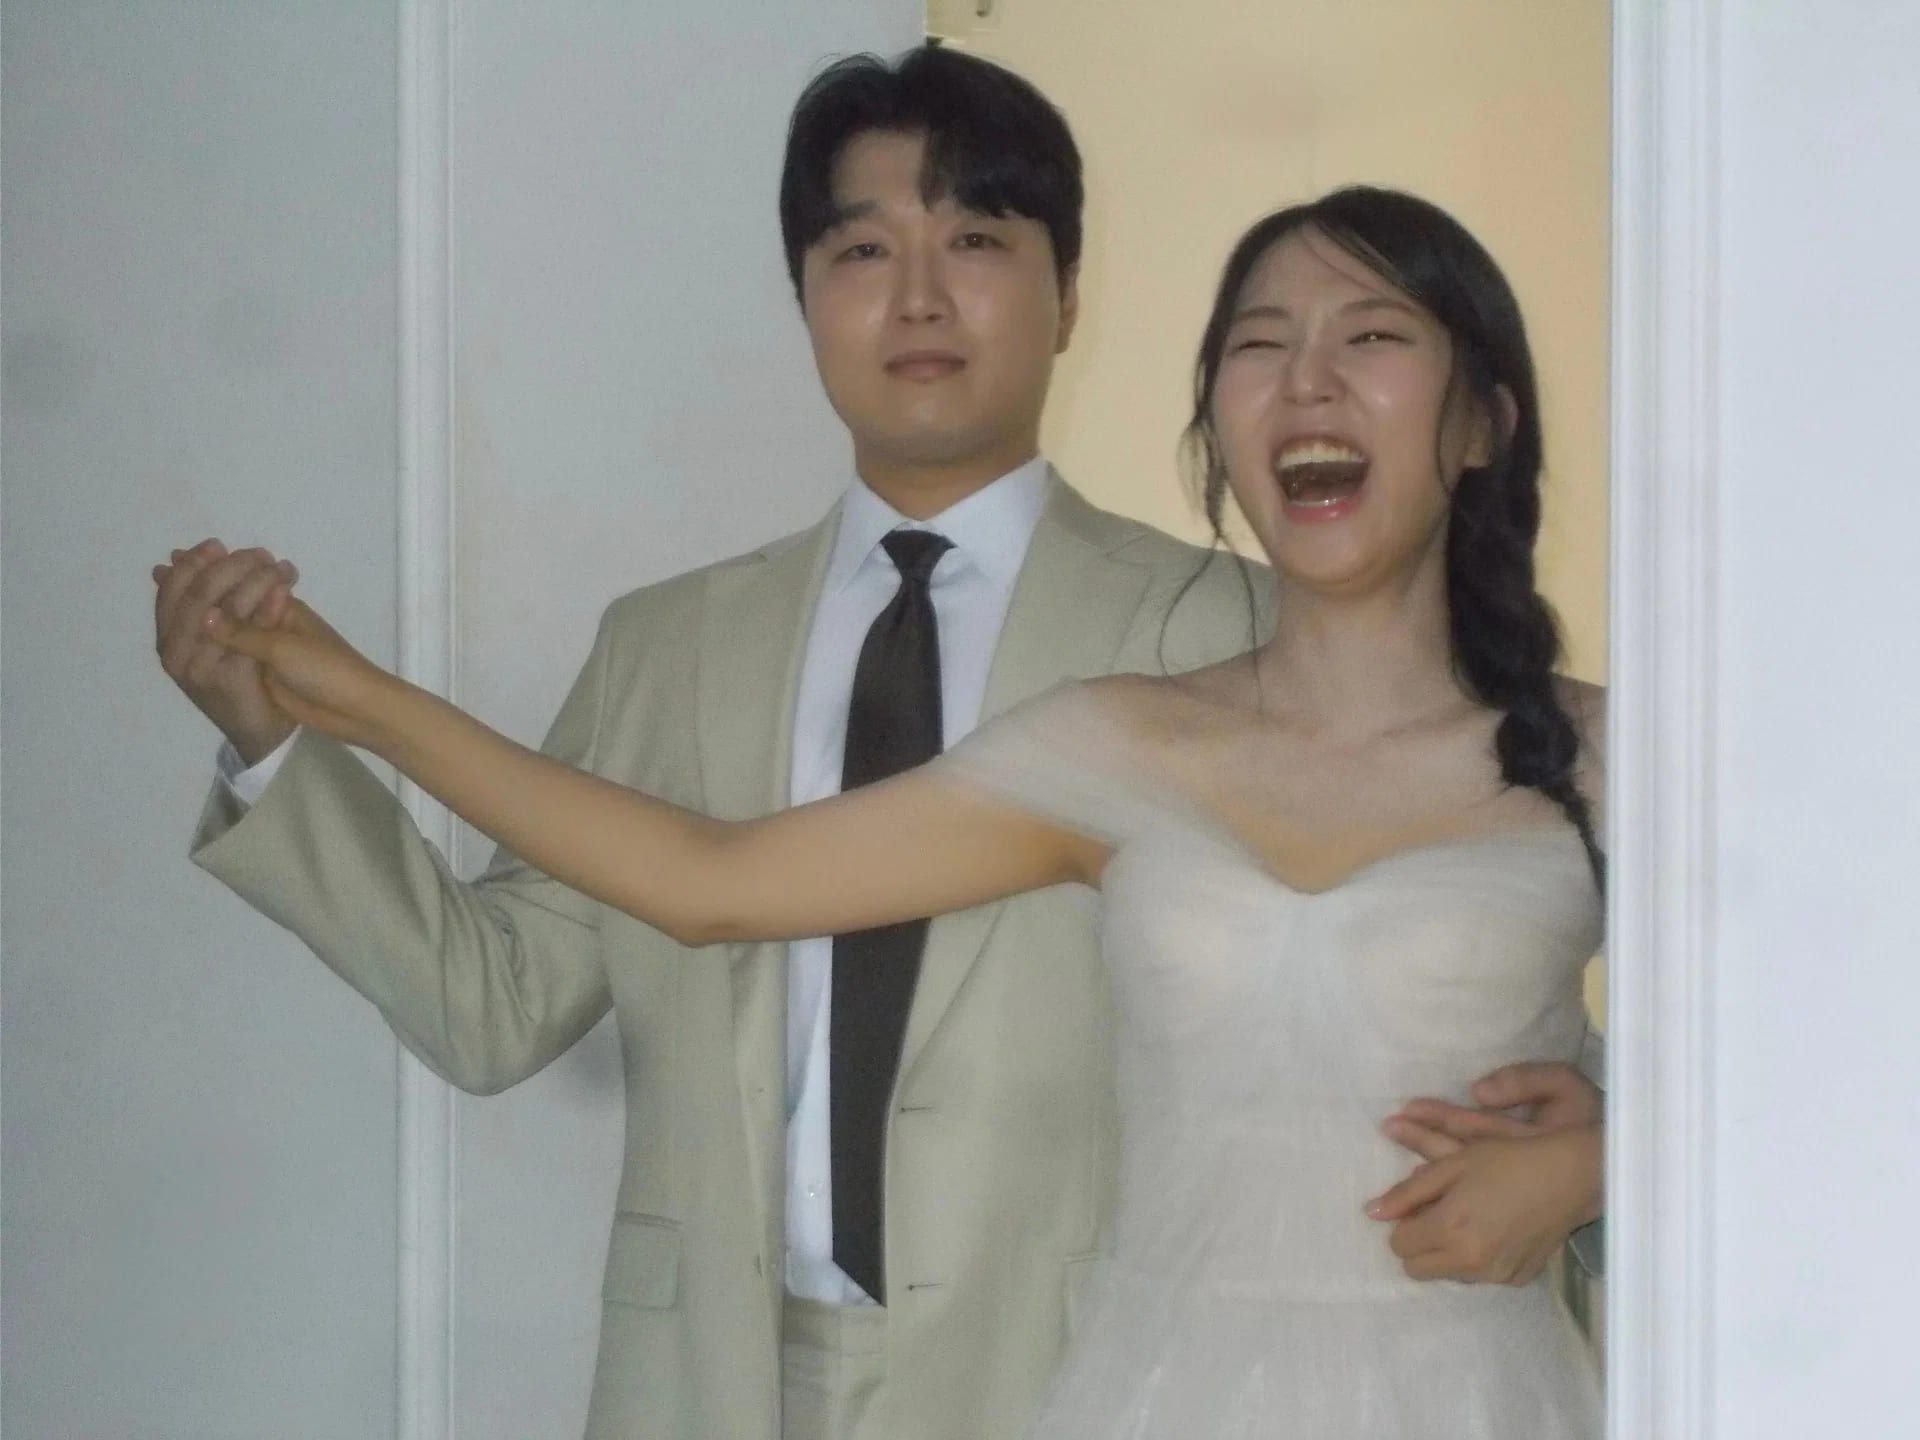
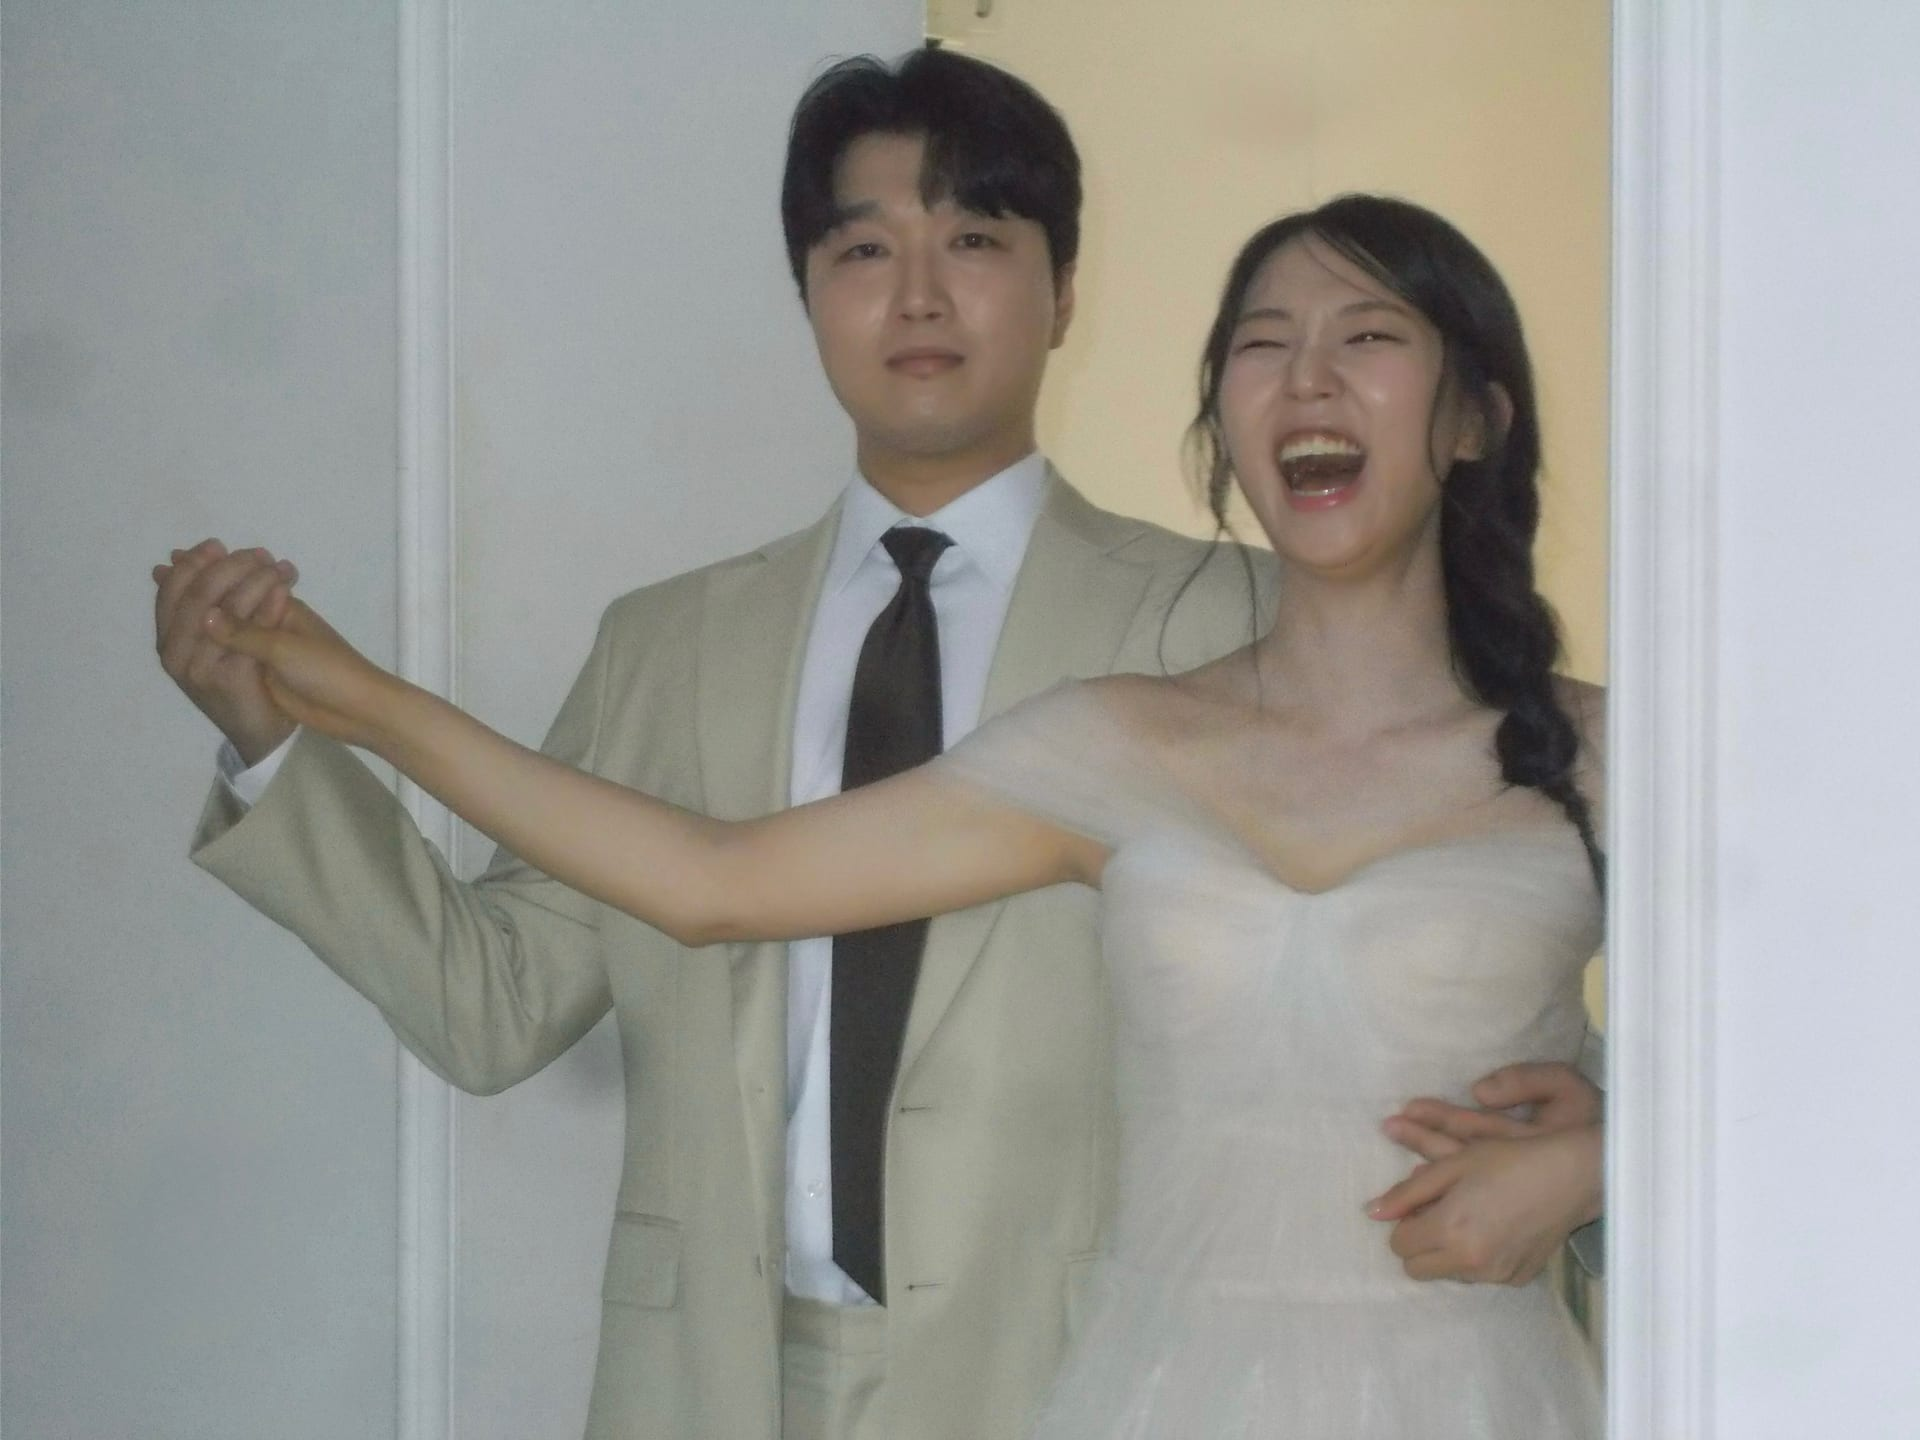
Replace gallery photo 28

diff --git a/docs/todo.md b/docs/todo.md
@@ -199,6 +199,8 @@
 
 ### 사진 — `photos/` 에 넣고 `npm run photos:prep`
 
+- [x] **화면 28번째 사진 교체 (2026-11-07 사용자 요청)** — 다운로드한 `28_replacement.jpg`로 기본 청첩장의 화면 28번째인 `gallery-29.jpg`를 교체했다. 1920×1440, 메타데이터 제거.
+- [x] **화면 28번째 사진 사용자 확인** — 로컬 화면 확인 후 push 요청 (2026-11-07).
 - [x] `hero.jpg` — 첫 화면 큰 사진 (세로 사진 권장)
       — 갤러리 1번과 같은 사진(1280×1920). 바른손 청첩장의 메인 사진은 864×1655로
       레티나 첫 화면에 폭이 모자라 더 큰 원본 쪽을 썼다
